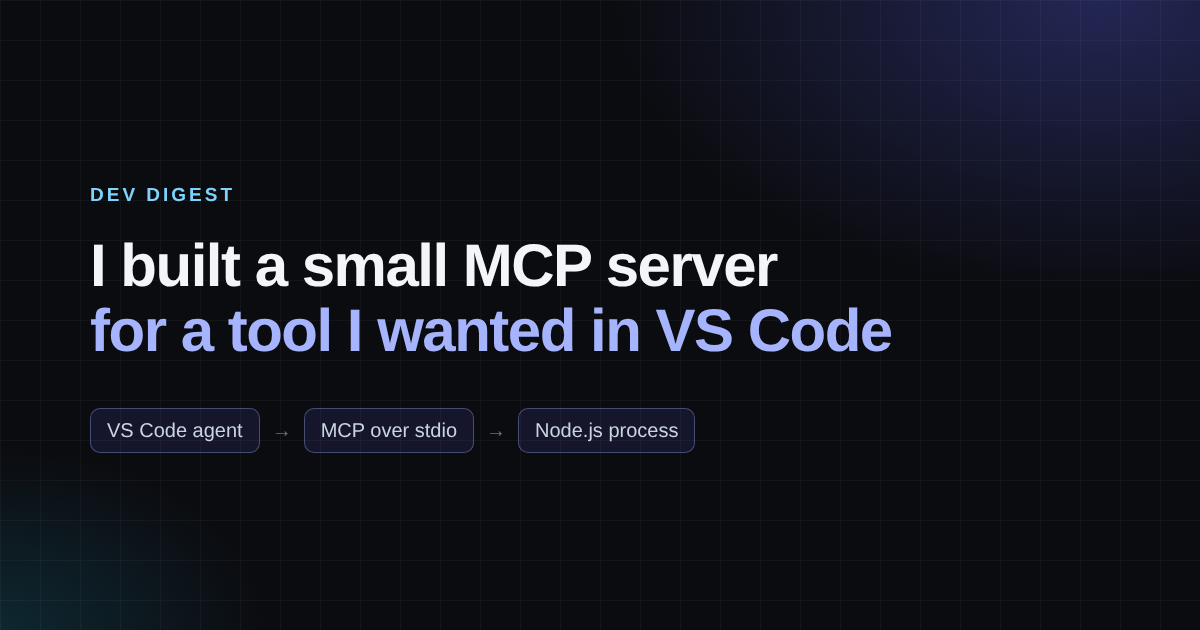
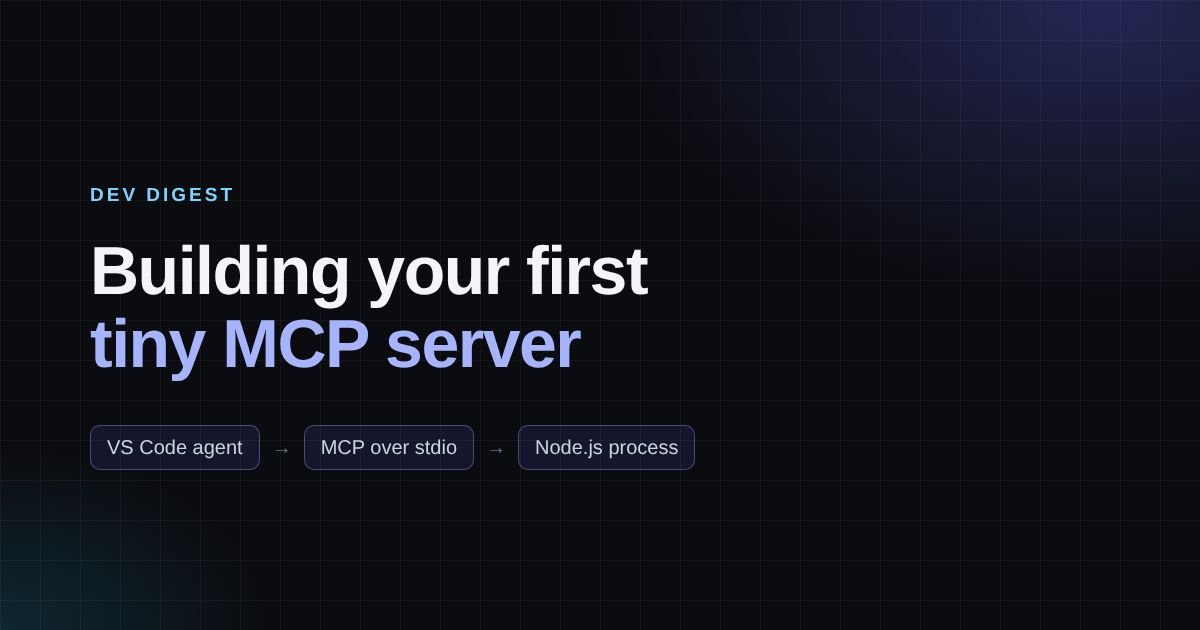
Retitle MCP post to "Building Your First Tiny MCP Server"
Update the front-matter title and regenerate the cover image to match.

Claude-Session: https://claude.ai/code/session_01QFiQS6GEzbFHNQdz7btE8t

diff --git a/src/posts/building-a-small-mcp-server.md b/src/posts/building-a-small-mcp-server.md
@@ -1,5 +1,5 @@
 ---
-title: "I Built a Small MCP Server for a Tool I Wanted in VS Code"
+title: "Building Your First Tiny MCP Server"
 date: 2026-11-05T08:00
 thumb: "building-a-small-mcp-server.png"
 description: "A local MCP server is just a small Node.js process that VS Code talks to over stdio. Here's how I built one, tested it with the MCP Inspector, and hooked it up to an agent."
